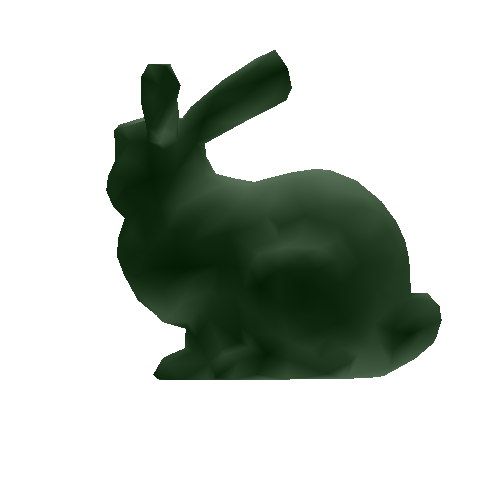
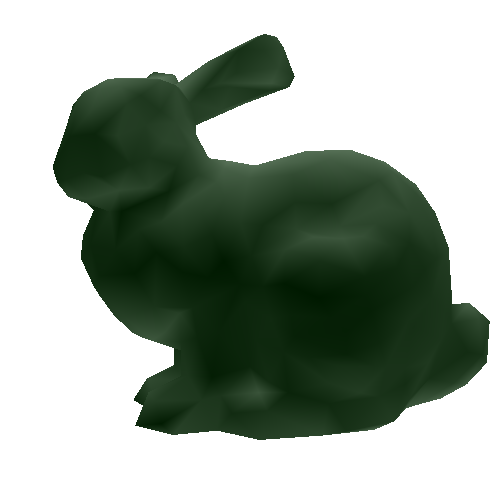
Done Ex.4: perspective camera; fix z-buffer bug

Changed region(s): [[0.09, 0.06, 0.99, 0.9], [0.69, 0.45, 0.72, 0.48]]

diff --git a/Assignment_5/src/main.cpp b/Assignment_5/src/main.cpp
@@ -109,7 +109,6 @@ void render_scene(
 	// Camera settings
 	const Vector3d camera_position,
 	const ProjectionType projection_type,
-	const double focal_length,
 	const double field_of_view,
 	// Image size (h, w)
 	const size_t w,
@@ -118,14 +117,6 @@ void render_scene(
 ) {
     std::cout << "Simple rendering system for triangulated 3D models based on rasterization." << std::endl;
 
-	// TODO: will only be used in perspective camera
-    // The camera always points in the direction -z
-    // The sensor grid is at a distance 'focal_length' from the camera center,
-    // and covers an viewing angle given by 'field_of_view'.
-    double aspect_ratio = double(w) / double(h);
-    double image_y = tan(field_of_view / 2) * focal_length;
-    double image_x = aspect_ratio * image_y;
-
 	// The Framebuffer storing the image rendered by the rasterizer
 	Eigen::Matrix<FrameBufferAttributes,Eigen::Dynamic,Eigen::Dynamic> frameBuffer(w, h);
 
@@ -133,9 +124,9 @@ void render_scene(
 
 	Program program;
 	program.VertexShader = [](const VertexAttributes& va, const UniformAttributes& uniform) {
-		VertexAttributes new_va = va.transform(uniform.affine, uniform.rotation);
+		VertexAttributes new_va = va.transform(uniform.shift, uniform.rotation);
 		new_va.color = uniform.color;
-		return new_va;
+		return new_va.transform(uniform.view);
 	};
 	program.FragmentShader = [](const VertexAttributes& va, const UniformAttributes& uniform) {
 		return FragmentAttributes(va.color, va.position);
@@ -203,7 +194,7 @@ void render_scene(
 		uniform.lights = lights;
 		uniform.alpha = alpha;
 		shading_program.VertexShader = [](const VertexAttributes& va, const UniformAttributes& uniform) {
-			VertexAttributes new_va = va.transform(uniform.affine, uniform.rotation);
+			VertexAttributes new_va = va.transform(uniform.shift, uniform.rotation);
 
 			const Vector3d ray_direction(0, 0, 1);
 			const Vector3d &p = position_to_position3(new_va.position), &N = new_va.normal;
@@ -234,7 +225,7 @@ void render_scene(
 			//Set alpha
 			new_va.color(3) = uniform.alpha;
 
-			return new_va;
+			return new_va.transform(uniform.view);
 		};
 		if (shading == "per-vertex") {
 			// Compute the per-vertex normals by averaging per-face normals
@@ -271,12 +262,37 @@ void render_scene(
 		}
 	}
 
-	Matrix4d view = Matrix4d::Identity();
-	if (aspect_ratio < 1)
-		view(1, 1) = aspect_ratio;
-	else
-		view(0, 0) = 1 / aspect_ratio;
-	uniform.affine = view * uniform.affine;
+    // The camera always points in the direction -z
+    // and covers an viewing angle given by 'field_of_view'.
+    const double aspect_ratio = double(w) / double(h);
+    double image_x, image_y;
+	const double near = 1 - camera_position(2), far = -1 - camera_position(2);
+	Matrix4d projective, orth = Matrix4d::Identity();
+	if (projection_type == orthographic) {
+		projective = Matrix4d::Identity();
+		if (aspect_ratio > 1) {
+			image_y = 1;
+			image_x = image_y * aspect_ratio;
+		}
+		else {
+			image_x = 1;
+			image_y = image_x / aspect_ratio;
+		}
+	}
+	else if (projection_type == perspective) {
+		projective <<
+			near,    0,        0,         0,
+			   0, near,        0,         0,
+			   0,    0, near+far, -far*near,
+			   0,    0,        1,         0;
+		image_y = tan(field_of_view / 2) * -near;
+		image_x = image_y * aspect_ratio;
+	}
+	orth(0, 0) = 1/image_x;
+	orth(1, 1) = 1/image_y;
+	Matrix4d camera_shift = Matrix4d::Identity();
+	camera_shift.block<3, 1>(0, 3) = -camera_position;
+	uniform.view = orth * camera_shift.inverse() * projective * camera_shift;
 
 	std::vector<uint8_t> image;
 	if (transformation) {
@@ -291,10 +307,8 @@ void render_scene(
 				         0, 1,           0, 0,
 				sin(theta), 0,  cos(theta), 0,
 				         0, 0,           0, 1;
-			// Affine transformation
-			uniform.affine = Matrix4d::Identity();
-			uniform.affine.block<3, 1>(0, 3) = (double)(t - timesteps) / timesteps * Vector3d(0, 0.7, -0.7);
-			uniform.affine = view * uniform.affine;
+			// Shift
+			uniform.shift.block<3, 1>(0, 3) = (double)(t - timesteps) / timesteps * Vector3d(0, 0.7, 1.8);
 
 			frameBuffer.setConstant(FrameBufferAttributes());
 			rasterize();
@@ -325,7 +339,6 @@ int main(int argc, char *argv[]) {
 		{"transformation",        no_argument,       0, 't'},
 		{"timesteps",             required_argument, 0, 9  },
 		{"delay",                 required_argument, 0, 10 },
-		{"focal_length",          required_argument, 0, 'f'},
 		{"field_of_view",         required_argument, 0, 1  },
 		{"projection_type",       required_argument, 0, 'p'},
 		{"obj_specular_exponent", required_argument, 0, 2  },
@@ -334,19 +347,18 @@ int main(int argc, char *argv[]) {
 	};
 
 	//Camera settings
-	const Vector3d camera_position(0, 0, 2);
+	Vector3d camera_position(0, 0, 2);
 	ProjectionType projection_type = perspective;
-	double focal_length = 2;
 	double field_of_view = pi / 4; // 45 degrees
 	size_t w = 500, h = 500;
 	std::string filename("triangle.png");
 	std::string shading("wireframe");
 	bool transformation = false;
-	int timesteps = 20;
-	int delay = 25;
+	int timesteps = 50;
+	int delay = 10;
 
 	int opt;
-	while ((opt = getopt_long(argc, argv, "w:h:f:p:a:", long_options, NULL)) != -1) {
+	while ((opt = getopt_long(argc, argv, "w:h:n:p:a:t", long_options, NULL)) != -1) {
 		switch (opt) {
 		case 0:
 			filename = optarg;
@@ -384,8 +396,8 @@ int main(int argc, char *argv[]) {
 		case 'h':
 			h = atoi(optarg);
 			break;
-		case 'f':
-			focal_length = atof(optarg);
+		case 'n':
+			camera_position(2) = atof(optarg) + 1;
 			break;
 		case 'p':
 			if (optarg[0] == 'p') {
@@ -427,7 +439,6 @@ int main(int argc, char *argv[]) {
 		delay,
 		camera_position,
 		projection_type,
-		focal_length,
 		field_of_view,
 		w, h,
 		filename);

diff --git a/Assignment_5/src/attributes.h b/Assignment_5/src/attributes.h
@@ -102,6 +102,16 @@ class VertexAttributes {
 			color
 		);
 	}
+
+	VertexAttributes transform(
+		const Eigen::Matrix4d& affine
+	) const {
+		return VertexAttributes(
+			affine * position,
+			normal,
+			color
+		);
+	}
 };
 
 class FragmentAttributes {
@@ -122,9 +132,9 @@ class FrameBufferAttributes {
 	class Layer {
 	public:
 		Color color;
-		double depth;
+		double z;
 
-		Layer(const Color& color, const double depth): color(color), depth(depth) {
+		Layer(const Color& color, const double z): color(color), z(z) {
 		}
 	};
 
@@ -134,7 +144,7 @@ class FrameBufferAttributes {
 	FrameBufferAttributes(
 		const Color& bg_color=Color(0, 0, 0, 0)
 	): color((bg_color * 255).cast<uint8_t>()) {
-		layers.emplace_back(bg_color, inf);
+		layers.emplace_back(bg_color, -inf);
 	}
 
 	void update_color() {
@@ -148,11 +158,11 @@ class FrameBufferAttributes {
 
 	void blend_with(
 		const Color& blended_color,
-		const double blended_depth
+		const double blended_z
 	) {
 		auto it = layers.begin();
-		while (it != layers.end() && it->depth > blended_depth - 5e-3) ++it;
-		layers.insert(it, Layer(blended_color, blended_depth));
+		while (it != layers.end() && it->z < blended_z + 5e-3) ++it;
+		layers.insert(it, Layer(blended_color, blended_z));
 		update_color();
 	}
 };
@@ -167,7 +177,11 @@ class UniformAttributes {
 		ambient_light;
 	double obj_specular_exponent, alpha;
 	std::vector<Light> lights;
-	Eigen::Matrix4d affine, rotation;
-	UniformAttributes(): affine(Eigen::Matrix4d::Identity()), rotation(Eigen::Matrix4d::Identity()) {
+	Eigen::Matrix4d rotation, shift, view;
+	UniformAttributes():
+		rotation(Eigen::Matrix4d::Identity()),
+		shift(Eigen::Matrix4d::Identity()),
+		view(Eigen::Matrix4d::Identity())
+	{
 	}
 };
